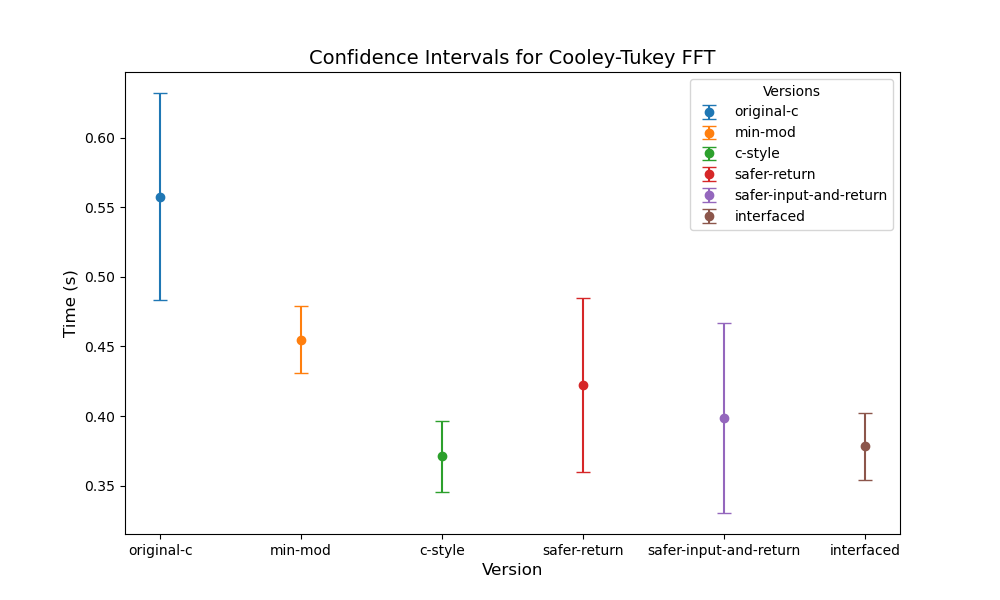
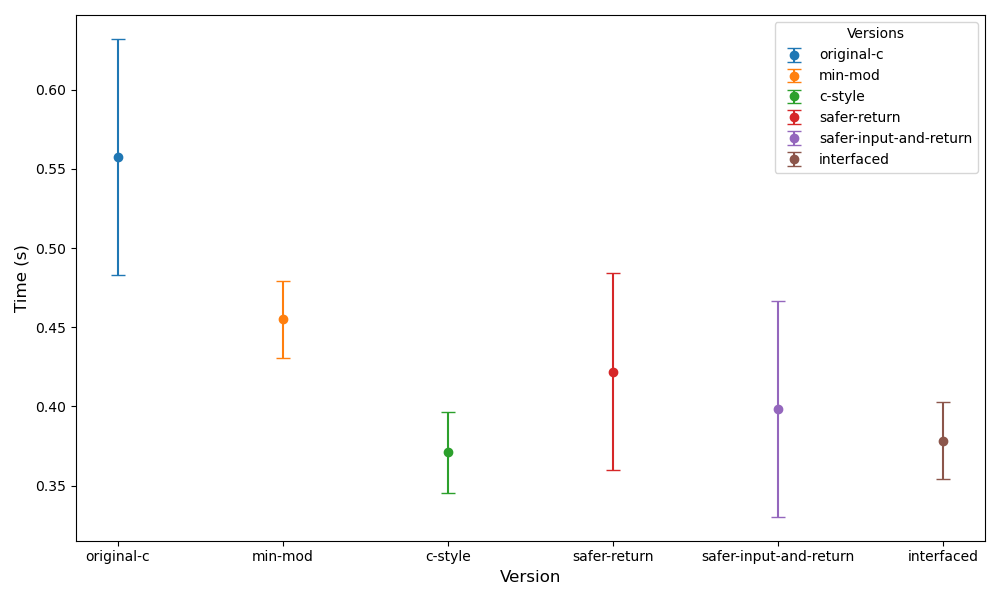
more plots

diff --git a/rs-fft/pyscripts/read_from_all_files.py b/rs-fft/pyscripts/read_from_all_files.py
@@ -52,7 +52,7 @@ for r in range(len(methods)):
     if plot_side_by_side:
         plt.suptitle(f"{methods[r]}", fontsize=14)
     else: 
-        plt.title(f"Confidence Intervals for {methods[r]} FFT", fontsize=14)
+        # plt.title(f"Confidence Intervals for {methods[r]} FFT", fontsize=14)
         plt.xlabel('Version', fontsize=12)
         plt.ylabel('Time (s)', fontsize=12)
 
@@ -88,8 +88,9 @@ for r in range(len(methods)):
         plt.legend( title="Versions")
     # Set xticks to be the version indices
     plt.xticks(range(len(versions)), versions) #, rotation=45
+    plt.tight_layout()
     plt.savefig(f"figs/{methods[r].lower()}-conf-intervals.png")
 
-plt.tight_layout()
+
 
 plt.show()
